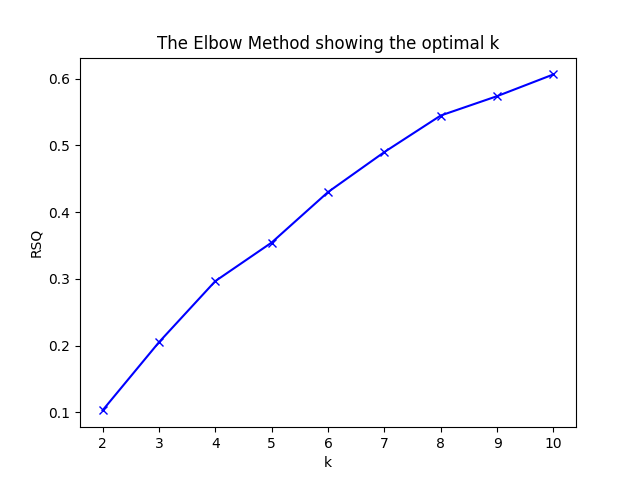
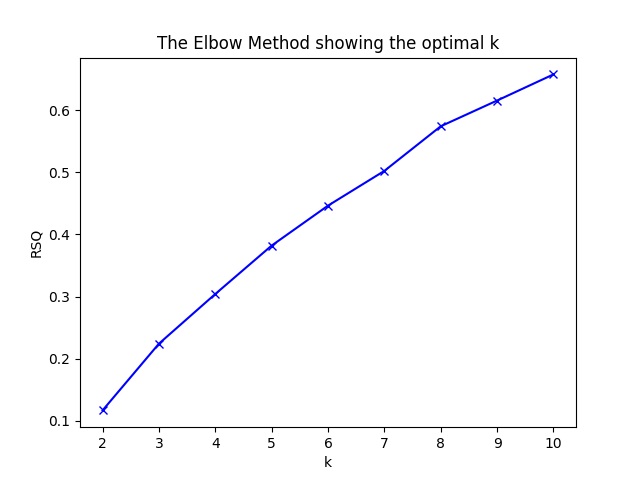
shuai commit

diff --git a/projet.py b/projet.py
@@ -132,23 +132,29 @@ def correlation_circle(df,nb_var,x_axis,y_axis,corvar):
     plt.close(fig)
 
 def clean_attributs(data):
-	# list all wrong attributs
-	wrong_risque=data.index[data['risque'] == '1-6'].tolist()
-	wrong_ca=data.index[data['ca_total_FL'] <= 0].tolist()
-	
-	lst_wrongs= wrong_risque+wrong_ca
+    
+    rdv_oui = data[data['rdv']==1]
+    rdv_non = data[data['rdv']==0]
+    random_non_rdv = rdv_non.sample(n=rdv_oui.shape[0], random_state=1)
 
-	# delete row by index
-	data = data.drop(data.index[lst_wrongs])
-	data["chgt_dir"] = data["chgt_dir"].astype(str)
-	
-	data["rdv"] = data["rdv"].astype(str)
-	data.loc[data['rdv'] == "1" ,'rdv'] = "oui"
-	data.loc[data['rdv'] == "0" ,'rdv'] = "non"
+    data=rdv_oui.append(random_non_rdv,ignore_index=True)
 
-	data["dept"] = data["dept"].astype(str)
+    # list all wrong attributs
+    wrong_risque=data.index[data['risque'] == '1-6'].tolist()
+    wrong_ca=data.index[data['ca_total_FL'] <= 0].tolist()
+    lst_wrongs= wrong_risque+wrong_ca
 
-	return data
+    # delete row by index
+    data = data.drop(data.index[lst_wrongs])
+    data["chgt_dir"] = data["chgt_dir"].astype(str)
+
+    data["rdv"] = data["rdv"].astype(str)
+    data.loc[data['rdv'] == "1" ,'rdv'] = "oui"
+    data.loc[data['rdv'] == "0" ,'rdv'] = "non"
+
+    data["dept"] = data["dept"].astype(str)
+
+    return data
 
 
 def preprocess_attributs_cat(data):
@@ -217,21 +223,20 @@ X_num_norm=preprocess_attributs_num(data_num)
 
 X_all_norm=pd.concat([X_cat_norm, X_num_norm],axis=1)
 
-
-k_means=KMeans(n_clusters=4)
+k_means=KMeans(n_clusters=5)
 k_means.fit(np.array(X_all_norm))
 
-my_dict = {i:np.where(k_means.labels_== i)[0] for i in range(k_means.n_clusters)}
+# my_dict = {i:np.where(k_means.labels_== i)[0] for i in range(k_means.n_clusters)}
 
-dictList = []
-for key,value in my_dict.iteritems():
-    tmp=[key,value]
-    dictList.append(tmp)
+# dictList = []
+# for key,value in my_dict.iteritems():
+#     tmp=[key,value]
+#     dictList.append(tmp)
 
-for num_cluster in range(0,4):
-    data_cluster = X_all_norm[k_means.labels_ == num_cluster]
-    print(data_cluster)
-    # for item in data_cluster:
+# for num_cluster in range(0,5):
+#     data_cluster = X_all_norm[k_means.labels_ == num_cluster]
+#     print(data_cluster)
+#     # for item in data_cluster:
 
 
 
@@ -243,7 +248,7 @@ for num_cluster in range(0,4):
 # plt.scatter(X_num_norm['ca_export_FK'], X_num_norm['endettement'], c=y_kmeans, s=2);
 # plt.show()
 
-#hiérarchique ascendante
+# hiérarchique ascendante
 # linkage_matrix = linkage(X_all_norm, 'ward')
 # fig = plt.figure()
 # dendrogram(linkage_matrix,color_threshold=0)
@@ -274,21 +279,21 @@ for num_cluster in range(0,4):
 # 	plt.clf()
 
 
-# acp = PCA(svd_solver='full')
-# coord = acp.fit_transform(X_num_norm)
-# print(pd.DataFrame(acp.components_))
-# print(pd.DataFrame(coord,columns=X_num_norm.columns))
+acp = PCA(svd_solver='full')
+coord = acp.fit_transform(X_all_norm)
+print(pd.DataFrame(acp.components_))
+print(pd.DataFrame(coord,columns=X_all_norm.columns))
 # plot eigen values
-# n = np.size(X_num_norm, 0)
-# p = np.size(X_num_norm, 1)
-# eigval = float(n-1)/n*acp.explained_variance_
-# fig =plt.figure() 
-# plt.plot(np.arange(1,p+1),eigval)
-# plt.title("Scree plot")
-# plt.ylabel("Eigen values")
-# plt.xlabel("Factor number")
-# plt.savefig('acp_eigen_values') 
-# plt.close(fig)
+n = np.size(X_all_norm, 0)
+p = np.size(X_all_norm, 1)
+eigval = float(n-1)/n*acp.explained_variance_
+fig =plt.figure() 
+plt.plot(np.arange(1,p+1),eigval)
+plt.title("Scree plot")
+plt.ylabel("Eigen values")
+plt.xlabel("Factor number")
+plt.savefig('acp_eigen_values') 
+plt.close(fig)
 
 
 # sqrt_eigval = np.sqrt(eigval) 
